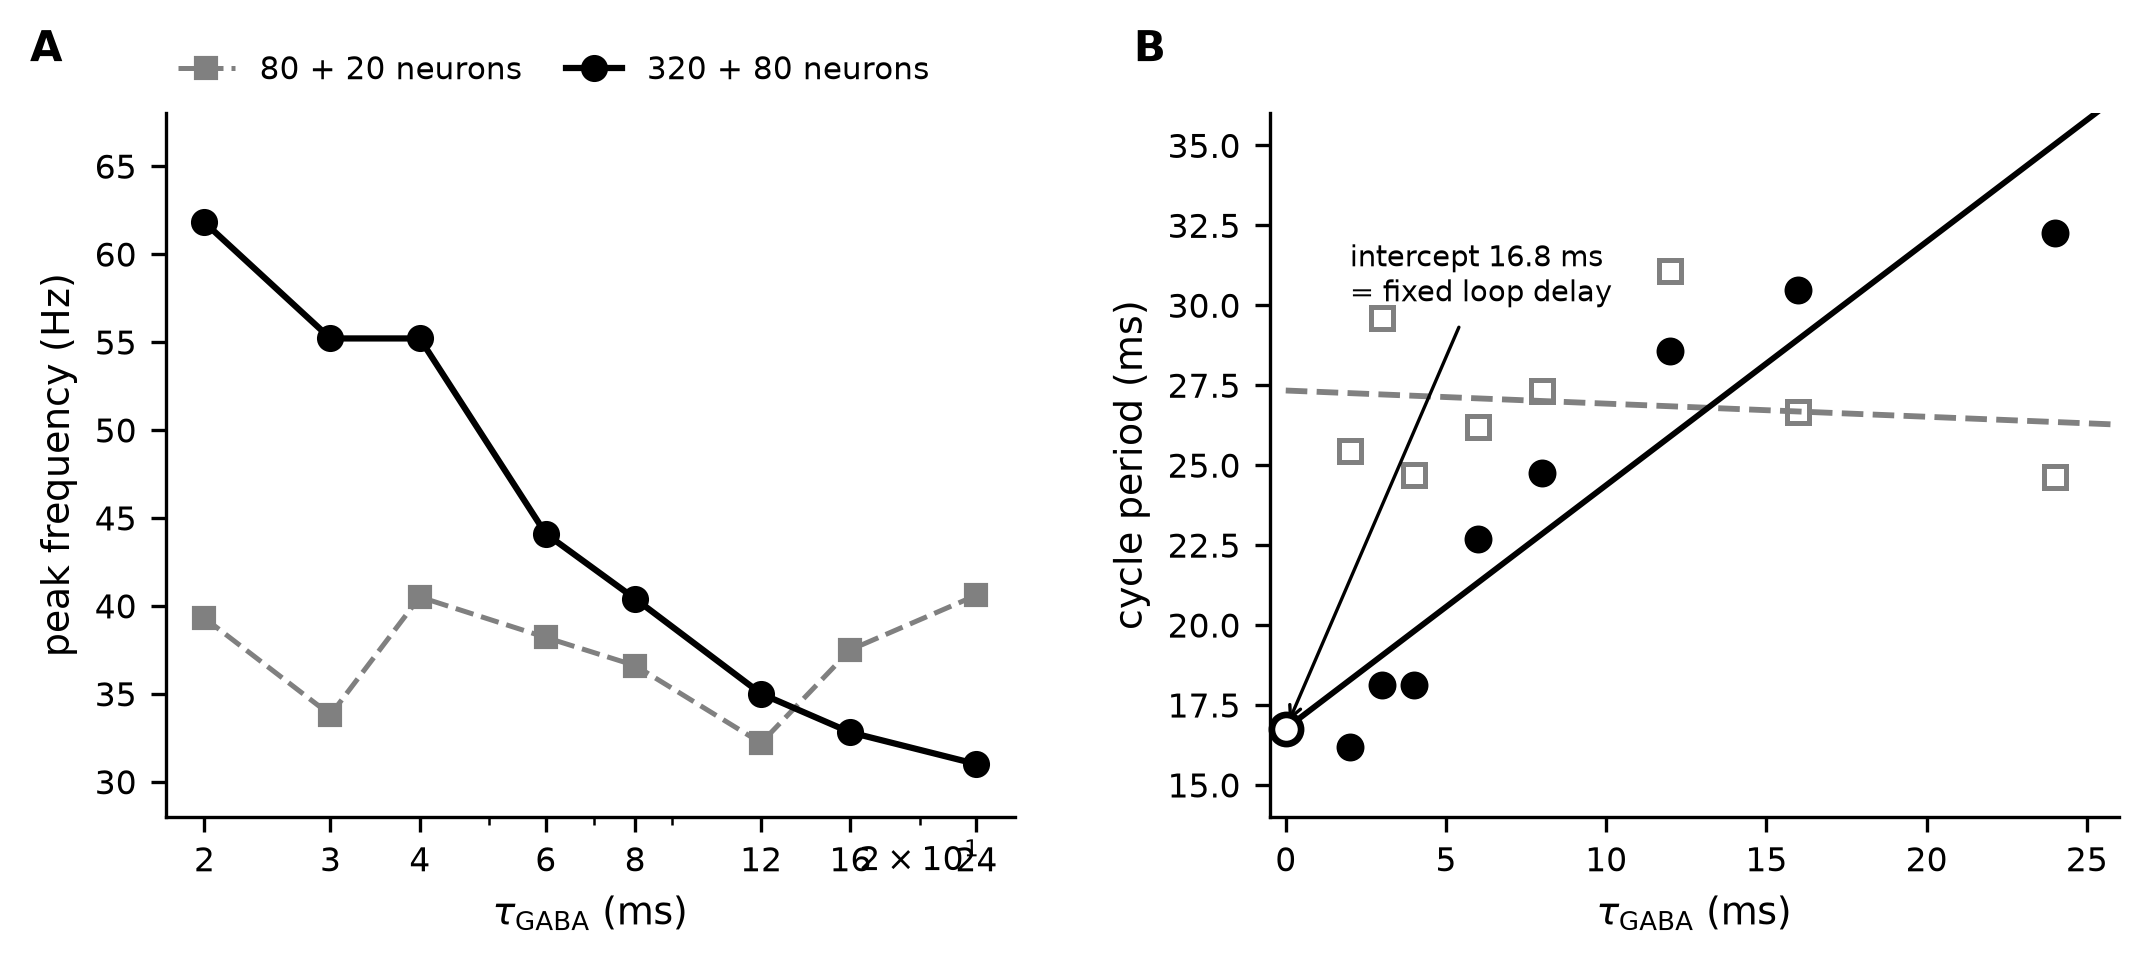
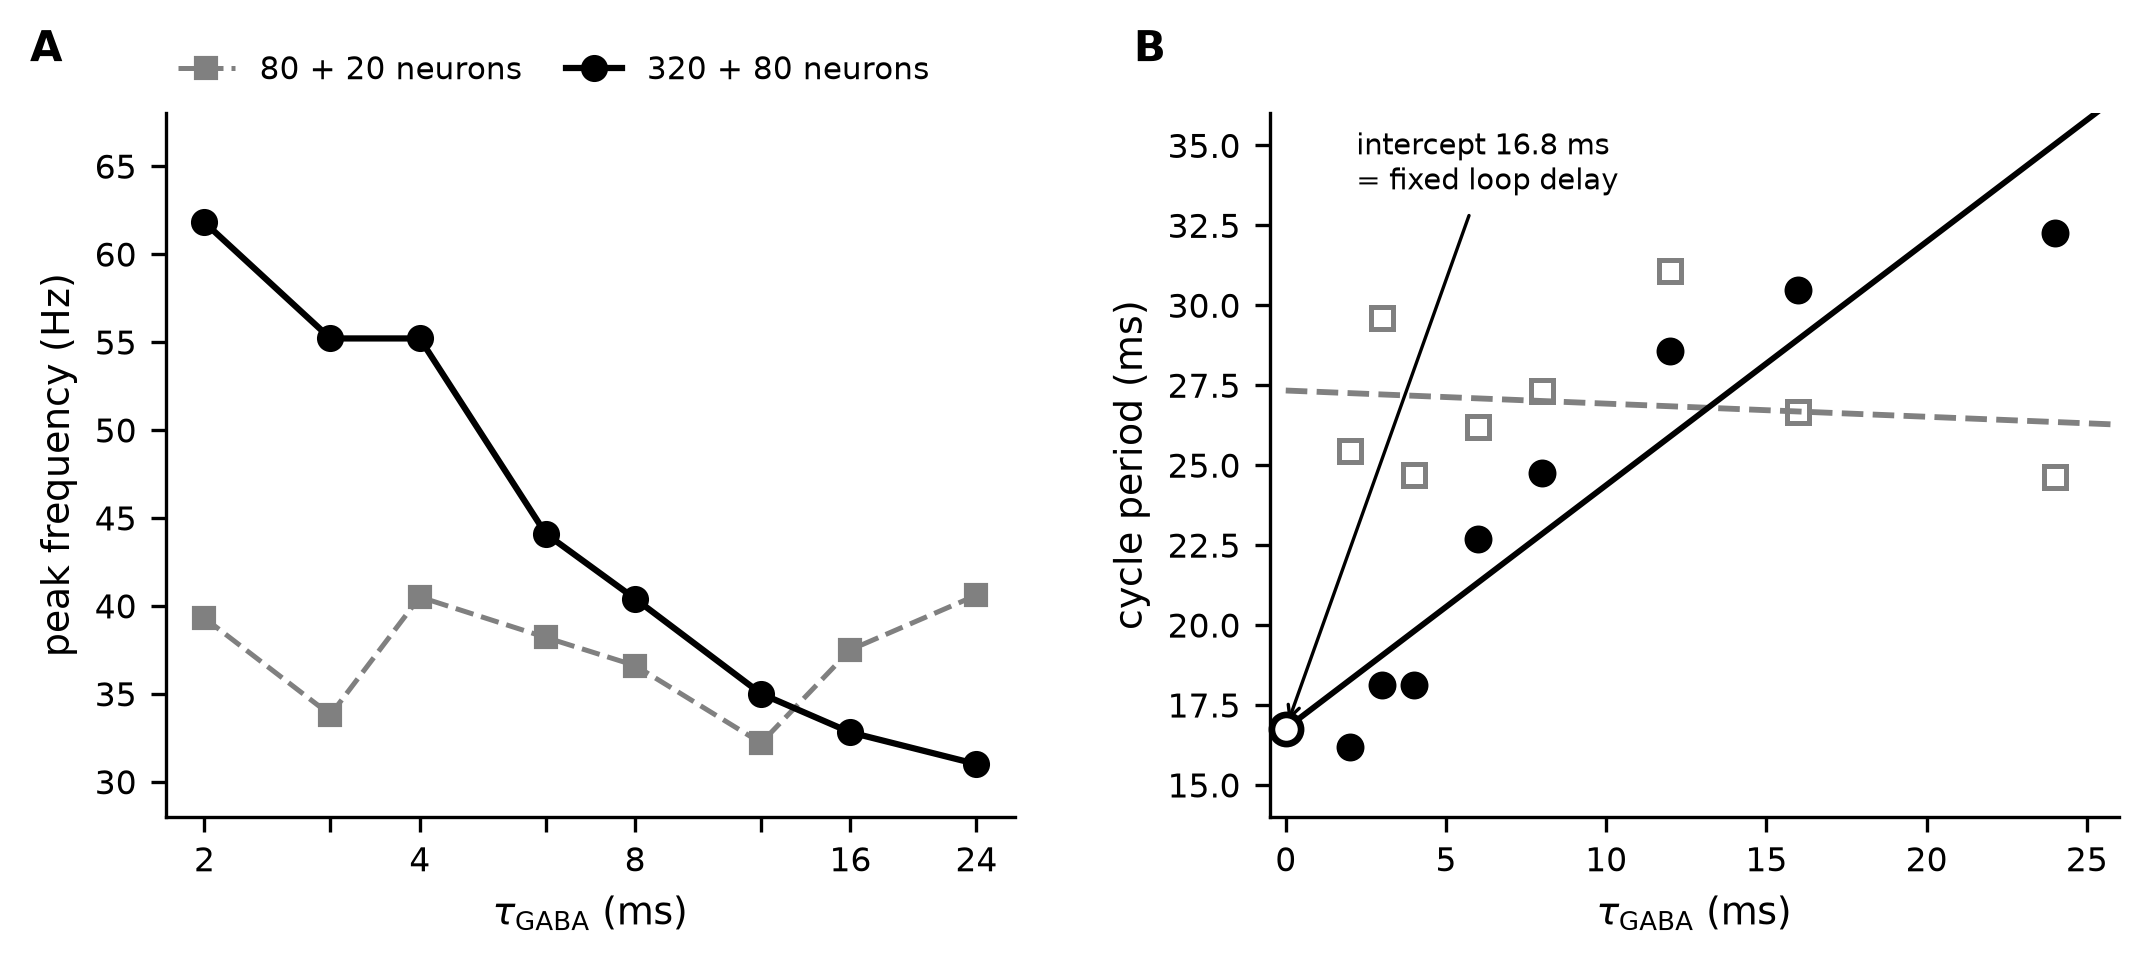
Add files via upload

diff --git a/v2/audit_manuscript.py b/v2/audit_manuscript.py
@@ -38,6 +38,22 @@ import sys
 import pathlib
 
 # ---------------------------------------------------------------------------
+# Numbers this paper QUOTES FROM SOMEONE ELSE'S PAPER. A third category, which
+# the related work section forced into existence: such a number is not printed by
+# anything in this archive and is not arithmetic, so it can be neither in a log
+# nor in DERIVED. Its provenance is a citation, which is checkable, but checkable
+# by reading the cited paper rather than by grepping a log.
+#
+# The rule is unchanged in substance: every number in the manuscript has a
+# recorded provenance. Putting one of these in DERIVED would be a lie, and
+# deleting the sentence to satisfy the tool would be letting the tool decide the
+# science. So the category is named instead, and the source is written down.
+# ---------------------------------------------------------------------------
+CITED = {
+    "36.07": "Zhang et al. (2019), eLife 8:e44320 -- awake S-gamma centre of "
+             "gravity, 36.07 +/- 5.38 Hz. Quoted in the related work section.",
+}
+
 # Numbers that are DERIVED, not measured. Each needs its derivation, here, in
 # code, so that "it's just arithmetic" is a checkable statement and not an
 # excuse. If you add to this list without a derivation you have defeated the
@@ -138,7 +154,7 @@ def main():
     claims = numbers_in(body)
     unsupported = []
     for n, ctx in sorted(claims.items(), key=lambda kv: kv[0]):
-        if in_logs(n) or n in DERIVED:
+        if in_logs(n) or n in DERIVED or n in CITED:
             continue
         unsupported.append((n, ctx))
 
@@ -150,6 +166,8 @@ def main():
     print(f"  claims     : {len(claims)} numbers")
     print(f"  in a log   : {sum(1 for n in claims if in_logs(n))}")
     print(f"  derived    : {sum(1 for n in claims if n in DERIVED and not in_logs(n))}")
+    print(f"  cited      : {sum(1 for n in claims if n in CITED and not in_logs(n) and n not in DERIVED)}"
+          f"   (quoted from another paper; provenance is a citation, not a log)")
     print(f"  UNSUPPORTED: {len(unsupported)}")
     print()
     if not unsupported:

diff --git a/v2/make_figures.py b/v2/make_figures.py
@@ -257,7 +257,11 @@ def figure4():
     a1.set_xscale("log")
     a1.set_xticks(tau)
     a1.set_xticklabels([f"{t:.0f}" if t in LABELLED else "" for t in tau])
-    a1.tick_params(axis="x", which="minor", bottom=False)
+    # bottom=False hides the minor TICK but not its LABEL, so matplotlib's log
+    # formatter still prints the decade minor tick at 20 as "2x10^1" between the
+    # 16 and 24 labels -- a third notation, on an axis whose other labels are
+    # plain integers. labelbottom=False removes it.
+    a1.tick_params(axis="x", which="minor", bottom=False, labelbottom=False)
     a1.set_xlabel(r"$\tau_{\mathrm{GABA}}$ (ms)")
     a1.set_ylabel("peak frequency (Hz)")
     legend_above(a1)

diff --git a/README.md b/README.md
@@ -138,7 +138,7 @@ The Zenodo record for the code and the Zenodo record for the paper are separate 
 
 | | DOI |
 |---|---|
-| **v2 preprint** | [10.5281/zenodo.21352530](https://doi.org/10.5281/zenodo.21352530) · all versions: `10.5281/zenodo.21272958` |
+| **v2 preprint** | [10.5281/zenodo.21352530](https://doi.org/10.5281/zenodo.21352530) |
 | **v2 code** | [10.5281/zenodo.21351830](https://doi.org/10.5281/zenodo.21351830) · all versions: `10.5281/zenodo.21265445` |
 | v1 preprint | [10.5281/zenodo.21272959](https://doi.org/10.5281/zenodo.21272959) · all versions: `10.5281/zenodo.21272958` |
 | v1 code | [10.5281/zenodo.21273211](https://doi.org/10.5281/zenodo.21273211) · all versions: `10.5281/zenodo.21265445` |